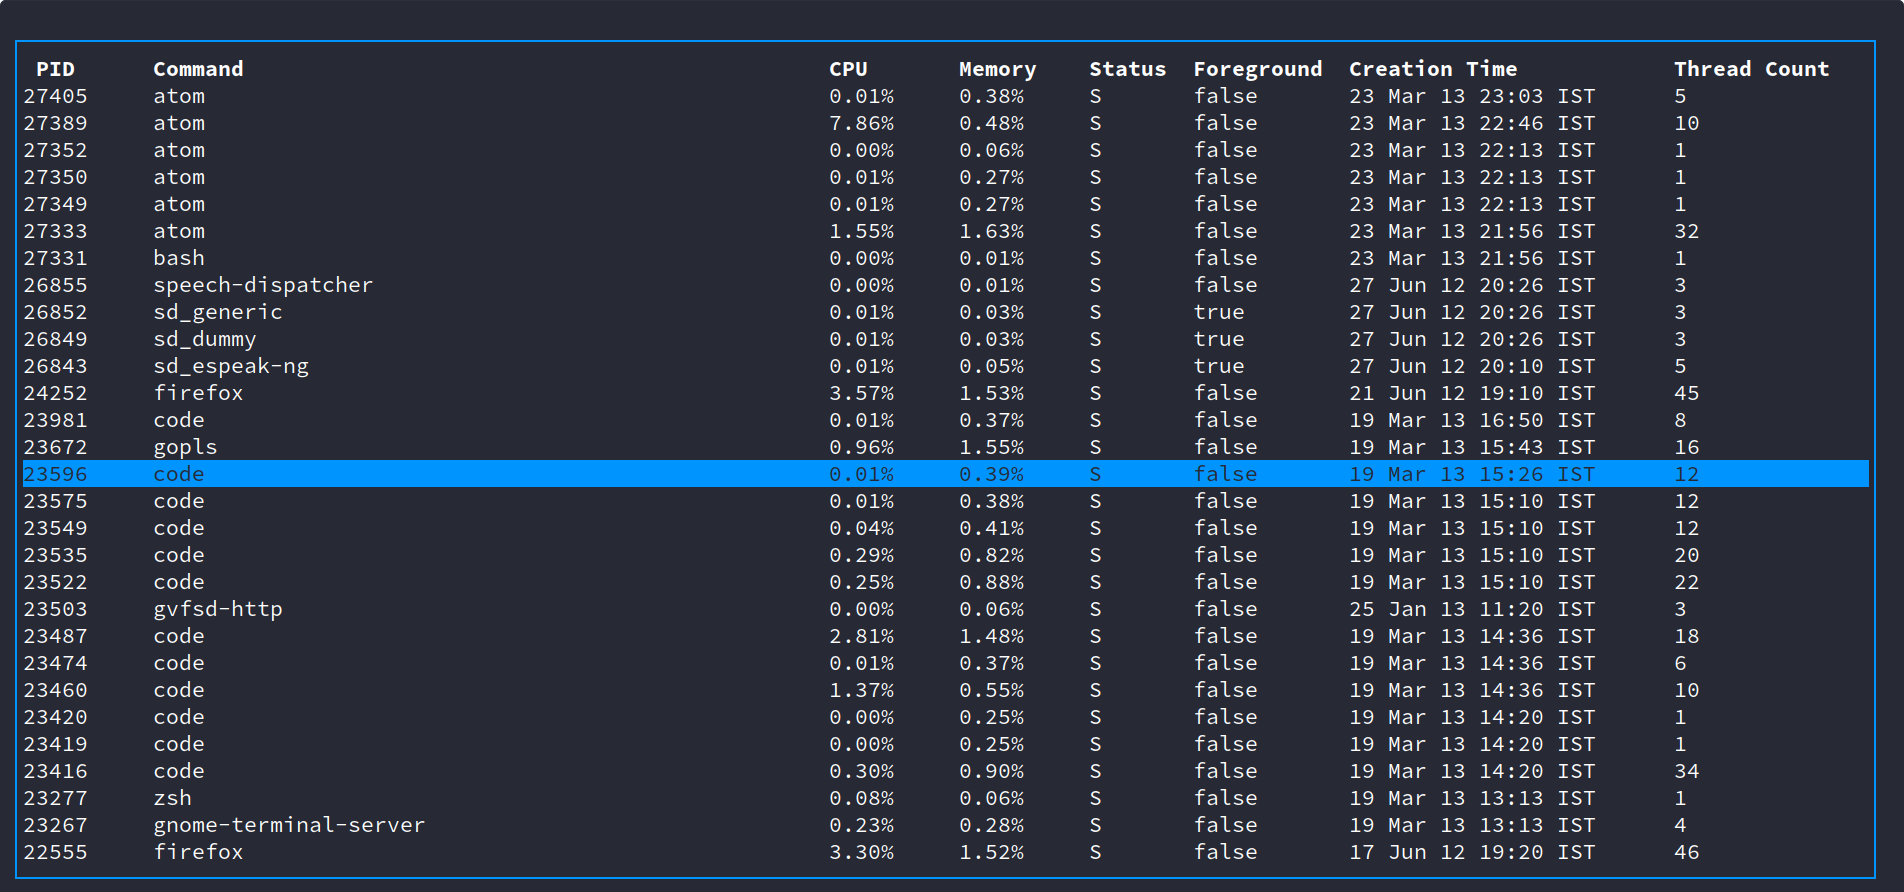
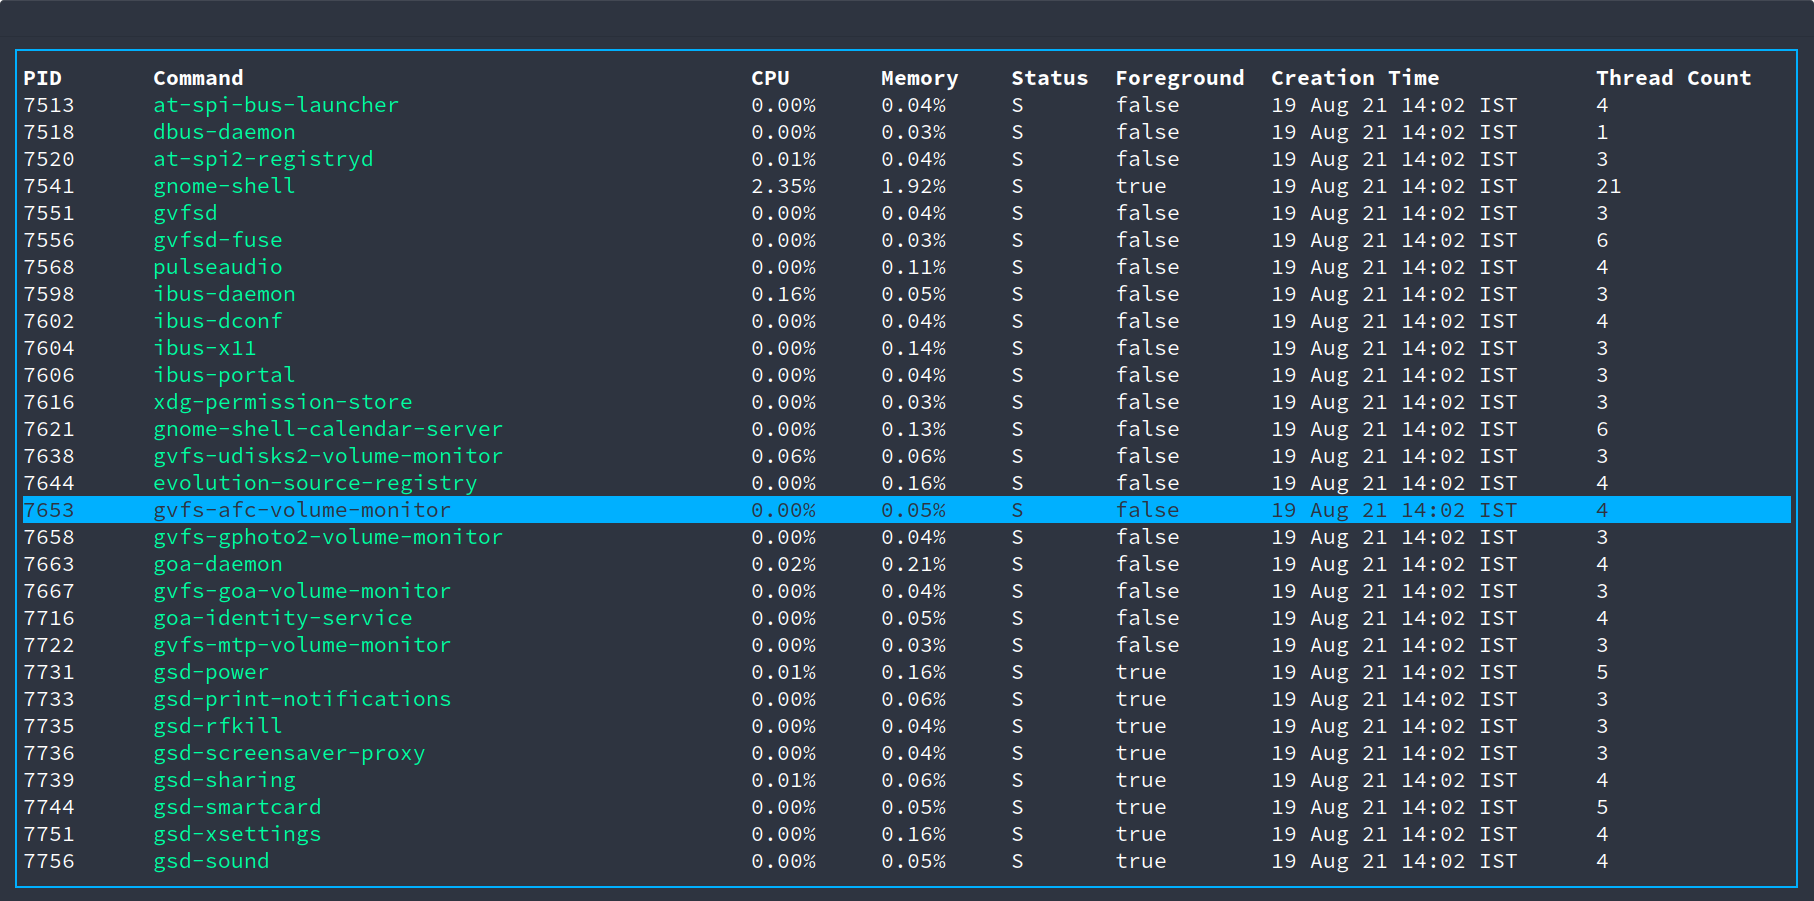
Update readme and images

diff --git a/pkg/sink/tui/process/per_proc.go b/pkg/sink/tui/process/per_proc.go
@@ -198,17 +198,17 @@ func ProcVisuals(ctx context.Context,
 
 				// update proc info
 				page.PIDTable.Rows = [][]string{
-					{"[Name](fg:cyan)", data.Name},
-					{"[Command](fg:cyan)", data.Exe},
-					{"[Status](fg:cyan)", statusMap[data.Status] + " (" + data.Status + ")"},
-					{"[Background](fg:cyan)", strconv.FormatBool(data.Background)},
-					{"[Foreground](fg:cyan)", strconv.FormatBool(data.Foreground)},
-					{"[Running](fg:cyan)", strconv.FormatBool(data.IsRunning)},
-					{"[Creation Time](fg:cyan)", utils.GetDateFromUnix(data.CreateTime)},
-					{"[Nice value](fg:cyan)", strconv.Itoa(int(data.Nice))},
-					{"[Thread count](fg:cyan)", strconv.Itoa(int(data.NumThreads))},
-					{"[Child process count](fg:cyan)", strconv.Itoa(len(data.Children))},
-					{"[Last Update](fg:cyan)", time.Now().Format("15:04:05")},
+					{"[Name](fg:green)", data.Name},
+					{"[Command](fg:green)", data.Exe},
+					{"[Status](fg:green)", statusMap[data.Status] + " (" + data.Status + ")"},
+					{"[Background](fg:green)", strconv.FormatBool(data.Background)},
+					{"[Foreground](fg:green)", strconv.FormatBool(data.Foreground)},
+					{"[Running](fg:green)", strconv.FormatBool(data.IsRunning)},
+					{"[Creation Time](fg:green)", utils.GetDateFromUnix(data.CreateTime)},
+					{"[Nice value](fg:green)", strconv.Itoa(int(data.Nice))},
+					{"[Thread count](fg:green)", strconv.Itoa(int(data.NumThreads))},
+					{"[Child process count](fg:green)", strconv.Itoa(len(data.Children))},
+					{"[Last Update](fg:green)", time.Now().Format("15:04:05")},
 				}
 				page.PIDTable.Title = " PID: " + strconv.Itoa(int(data.Proc.Pid)) + " "
 

diff --git a/README.md b/README.md
@@ -1,7 +1,7 @@
 Grofer
 ======
 
-[![pesos](https://circleci.com/gh/pesos/grofer.svg?style=svg)](https://app.circleci.com/pipelines/github/pesos/grofer)
+[![pesos](https://circleci.com/gh/pesos/grofer.svg?style=svg)](https://app.circleci.com/pipelines/github/pesos/grofer) [![Docker](https://github.com/pesos/grofer/actions/workflows/docker-publish.yml/badge.svg)](https://github.com/pesos/grofer/actions/workflows/docker-publish.yml) [![Go](https://github.com/pesos/grofer/actions/workflows/go.yml/badge.svg)](https://github.com/pesos/grofer/actions/workflows/go.yml)
 
 A clean and modern system and resource monitor written purely in golang using [termui](https://github.com/gizak/termui) and [gopsutil](https://github.com/shirou/gopsutil)!
 
@@ -22,6 +22,7 @@ As an executable:
 curl -sSL https://github.com/pesos/grofer/releases/download/<version tag>/grofer_<architecture> --output grofer
 chmod +x grofer
 ```
+
 Latest version: `v1.3.0`
 
 `architecture`: underlying system architecture on which grofer will be run  
@@ -46,17 +47,17 @@ go build grofer.go
 
 ### Docker
 
-1. Get docker image using
-   ```
+1.	Get docker image using
+
+```
    docker pull ghcr.io/pesos/grofer
-   ```
+```
 
-   Note: This will use the `latest` image which is built from the main branch.
-   For stable releases, you will need to use the version number as the tag.
-   Example: `docker pull ghcr.io/pesos/grofer:1.3.0`
+Note: This will use the `latest` image which is built from the main branch. For stable releases, you will need to use the version number as the tag. Example: `docker pull ghcr.io/pesos/grofer:1.3.0`
 
-1. Run using
-   ```bash
+1.	Run using
+
+```bash
    docker run \
     --name grofer \
     --rm -it \
@@ -66,10 +67,11 @@ go build grofer.go
     --pid=host \
     --network=host \
     ghcr.io/pesos/grofer
-   ```
+```
 
-   Additional subcommands and flags to `grofer` can be passed directly at the end of the above command:
-   ```bash
+Additional subcommands and flags to `grofer` can be passed directly at the end of the above command:
+
+```bash
    docker run \
     --name grofer \
     --rm -it \
@@ -79,9 +81,9 @@ go build grofer.go
     --pid=host \
     --network=host \
     ghcr.io/pesos/grofer proc
-   ```
+```
 
-   ```bash
+```bash
    docker run \
     --name grofer \
     --rm -it \
@@ -91,9 +93,11 @@ go build grofer.go
     --pid=host \
     --network=host \
     ghcr.io/pesos/grofer --help
-   ```
-1. (Optional) create an alias for `docker run` to be able to run it using just `grofer`
-   ```zsh
+```
+
+1.	(Optional) create an alias for `docker run` to be able to run it using just `grofer`
+
+```zsh
    alias grofer="docker run \
     --name grofer \
     --rm -it \
@@ -103,21 +107,23 @@ go build grofer.go
     --pid=host \
     --network=host \
     ghcr.io/pesos/grofer"
-   ```
+```
 
-   Then use `grofer` as normal:
-   ```bash
+Then use `grofer` as normal:
+
+```bash
    grofer --help
-   ```
+```
 
-   ```bash
+```bash
    grofer proc
-   ```
+```
 
-   Container metrics also work inside docker:
-   ```bash
+Container metrics also work inside docker:
+
+```bash
    grofer container
-   ```
+```
 
 #### Building Docker image
 
